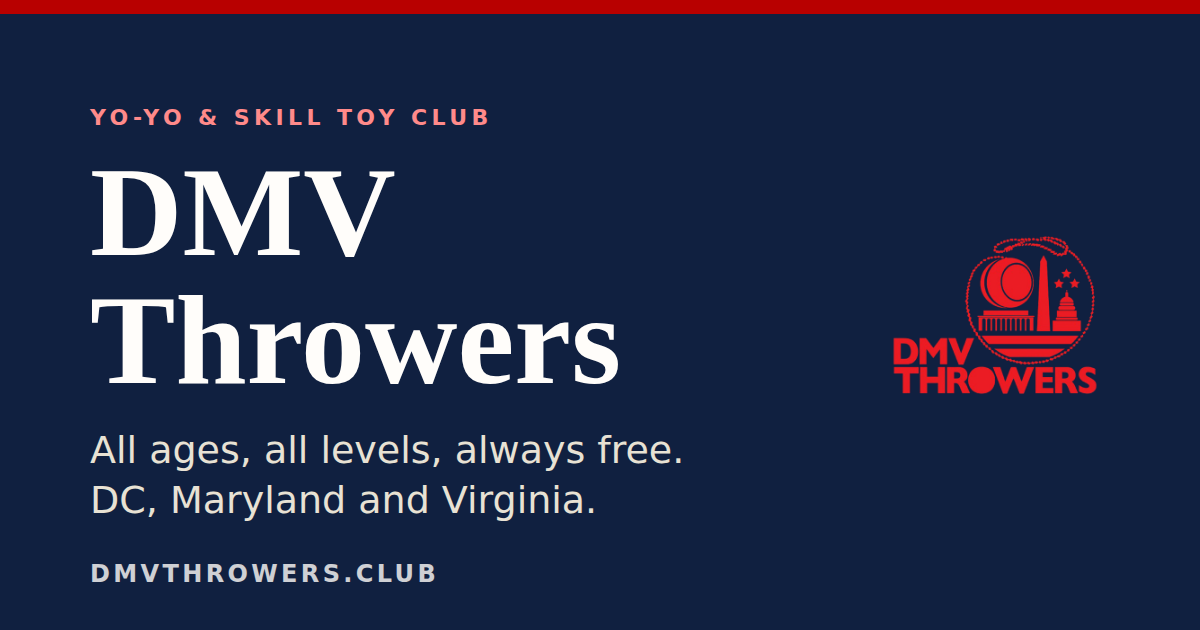
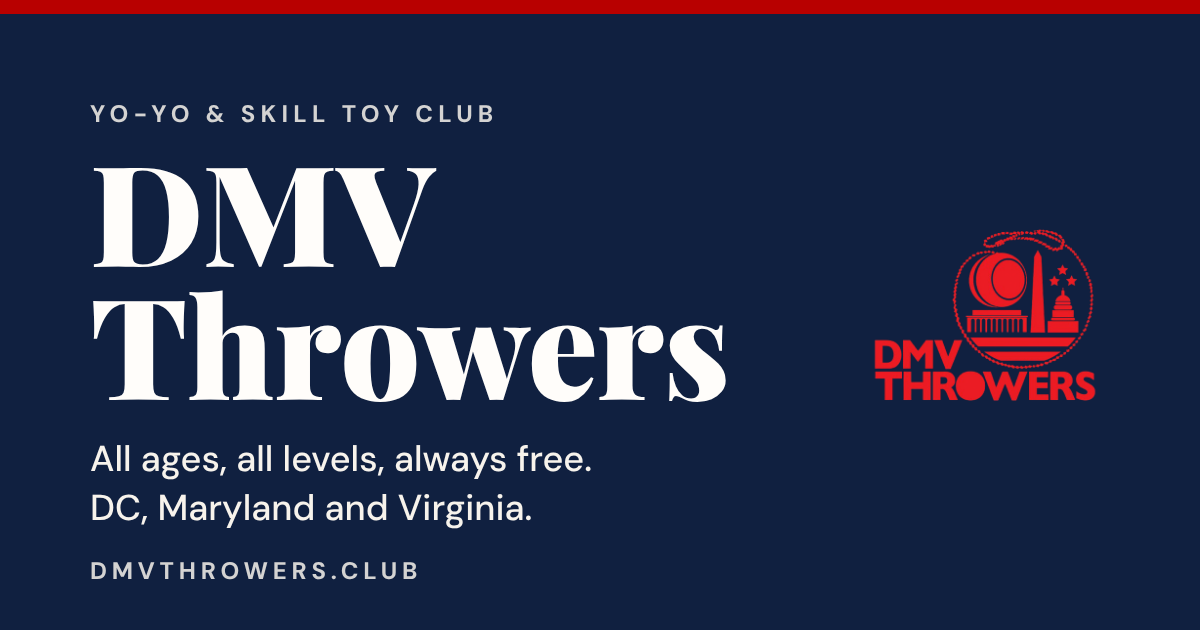
chore(assets): regenerate the share cards with the brand fonts
Claude-Session: https://claude.ai/code/session_01Nme8cjeVZth471qbapYEML

diff --git a/scripts/share-cards/cards.html b/scripts/share-cards/cards.html
@@ -1,0 +1,59 @@
+<!doctype html>
+<html lang="en">
+<head>
+<meta charset="utf-8">
+<title>Share cards</title>
+<!-- Source for assets/images/og/dmvt-share.png and vsyc26-share.png (1200 x 630). See README.md here. -->
+<link rel="stylesheet" href="../../assets/css/fonts.css">
+<style>
+  :root { --red: #B80000; --navy: #102040; --cream: #fffdfa; --cream-mid: #f7f3ec; --gold: #C9A84C; }
+  * { box-sizing: border-box; border-radius: 0; margin: 0; }
+  body { background: #444; }
+  .card { position: relative; width: 1200px; height: 630px; background: var(--navy); color: var(--cream); overflow: hidden; display: none; }
+  body.dmvt .card.dmvt, body.vsyc .card.vsyc { display: block; }
+  .bar { position: absolute; top: 0; left: 0; right: 0; height: 14px; }
+  .dmvt .bar { background: var(--red); }
+  .vsyc .bar { background: var(--gold); }
+  .text { position: absolute; left: 90px; top: 0; bottom: 0; width: 760px; display: flex; flex-direction: column; justify-content: center; }
+  .eyebrow { font-size: 24px; font-weight: 700; letter-spacing: 0.22em; text-transform: uppercase; margin-bottom: 14px; }
+  .logo { position: absolute; right: 90px; top: 50%; transform: translateY(-50%); }
+  .url { position: absolute; left: 90px; bottom: 44px; font-size: 24px; font-weight: 700; letter-spacing: 0.2em; text-transform: uppercase; }
+
+  .dmvt .text { font-family: 'DM Sans', sans-serif; }
+  .dmvt .eyebrow { color: var(--cream-mid); opacity: 0.85; }
+  .dmvt h1 { font-family: 'Playfair Display', serif; font-weight: 900; font-size: 140px; line-height: 0.95; color: var(--cream); margin-bottom: 26px; }
+  .dmvt .line { font-size: 36px; font-weight: 500; line-height: 1.35; color: var(--cream-mid); }
+  .dmvt .url { font-family: 'DM Sans', sans-serif; color: var(--cream-mid); opacity: 0.85; }
+  .dmvt .logo img { width: 250px; height: 250px; display: block; }
+
+  .vsyc .text { font-family: 'Montserrat', sans-serif; }
+  .vsyc .eyebrow { color: var(--gold); }
+  .vsyc h1 { font-family: 'Montserrat', sans-serif; font-weight: 800; font-size: 170px; line-height: 1; color: var(--cream); margin-bottom: 30px; letter-spacing: -0.01em; }
+  .vsyc .line { font-size: 34px; font-weight: 600; line-height: 1.4; color: var(--cream-mid); }
+  .vsyc .url { font-family: 'Montserrat', sans-serif; color: var(--gold); }
+  .vsyc .logo img { width: 250px; height: 250px; display: block; clip-path: circle(46.2%); } /* the source file has black corners; the logo itself is round */
+</style>
+</head>
+<body class="dmvt">
+<div class="card dmvt">
+  <div class="bar"></div>
+  <div class="text">
+    <p class="eyebrow">Yo-Yo &amp; Skill Toy Club</p>
+    <h1>DMV<br>Throwers</h1>
+    <p class="line">All ages, all levels, always free.<br>DC, Maryland and Virginia.</p>
+  </div>
+  <div class="logo"><img src="../../assets/images/dmvt-logo-512.png" alt="" width="250" height="250"></div>
+  <p class="url">dmvthrowers.club</p>
+</div>
+<div class="card vsyc">
+  <div class="bar"></div>
+  <div class="text">
+    <p class="eyebrow">Virginia State Yo-Yo Contest</p>
+    <h1>VSYC-26</h1>
+    <p class="line">September 19, 2026<br>Dulles Town Center · Sterling, VA</p>
+  </div>
+  <div class="logo"><img src="../../assets/images/vsyc26-va-logo-512.png" alt="" width="230" height="230"></div>
+  <p class="url">dmvthrowers.club/vsyc26</p>
+</div>
+</body>
+</html>

diff --git a/scripts/share-cards/render.js b/scripts/share-cards/render.js
@@ -1,0 +1,18 @@
+// Renders the two share cards from cards.html into assets/images/og/ (1200 x 630 PNG).
+// Needs Node and Playwright with Chromium:  node scripts/share-cards/render.js
+const { chromium } = require('playwright');
+const path = require('path');
+const root = path.resolve(__dirname, '../..');
+(async () => {
+  const browser = await chromium.launch(process.env.CHROMIUM_PATH ? { executablePath: process.env.CHROMIUM_PATH } : {});
+  const page = await browser.newPage({ viewport: { width: 1200, height: 630 } });
+  for (const [cls, out] of [['dmvt', 'dmvt-share.png'], ['vsyc', 'vsyc26-share.png']]) {
+    await page.goto('file://' + path.join(__dirname, 'cards.html'));
+    await page.evaluate((c) => { document.body.className = c; }, cls);
+    await page.evaluate(() => document.fonts.ready);
+    await page.waitForTimeout(300);
+    await page.screenshot({ path: path.join(root, 'assets/images/og', out), clip: { x: 0, y: 0, width: 1200, height: 630 } });
+    console.log('wrote assets/images/og/' + out);
+  }
+  await browser.close();
+})();

diff --git a/scripts/share-cards/README.md b/scripts/share-cards/README.md
@@ -1,0 +1,22 @@
+# Share cards
+
+`cards.html` is the source for the two link-preview images:
+
+- `assets/images/og/dmvt-share.png`: the club (Playfair Display and DM Sans)
+- `assets/images/og/vsyc26-share.png`: VSYC-26 (Montserrat)
+
+Both are 1200 x 630 and use the self-hosted fonts in `assets/fonts/` through `assets/css/fonts.css`.
+
+To change the wording or the logo, edit `cards.html`, then regenerate:
+
+```sh
+npm install playwright            # once, anywhere you like; or use a global install
+node scripts/share-cards/render.js
+```
+
+If Playwright can't find a browser, point `CHROMIUM_PATH` at a Chromium or Chrome binary.
+Check the two PNGs by eye and keep them under 500 KB. Date, venue and place on the VSYC card must
+match `vsyc26.html`.
+
+Social sites cache preview images. After you change a card, ask the site to refresh it (for example
+Facebook's Sharing Debugger) or rename the file and update the `og:image` and `twitter:image` tags.

diff --git a/docs/ROADMAP.md b/docs/ROADMAP.md
@@ -95,8 +95,6 @@ issues #76–#96 (contest-app items carry a `[VA-States]` prefix).
   `docs/CONTEST_APP_MASTER_PLAN.md` (Part 6).
 
 - **Heading case on the guide pages:** Title Case (the brand rule) or leave as is.
-- **Share cards:** `dmvt-share.png` and `vsyc26-share.png` render in fallback system fonts.
-  Regenerate them with Playfair Display?
 - **GitHub topics and descriptions** on the six template repos (set by hand in each repo's
   settings). Suggested topics: `yo-yo`, `skill-toys`, `github-pages`, `static-site`,
   `website-template`.
